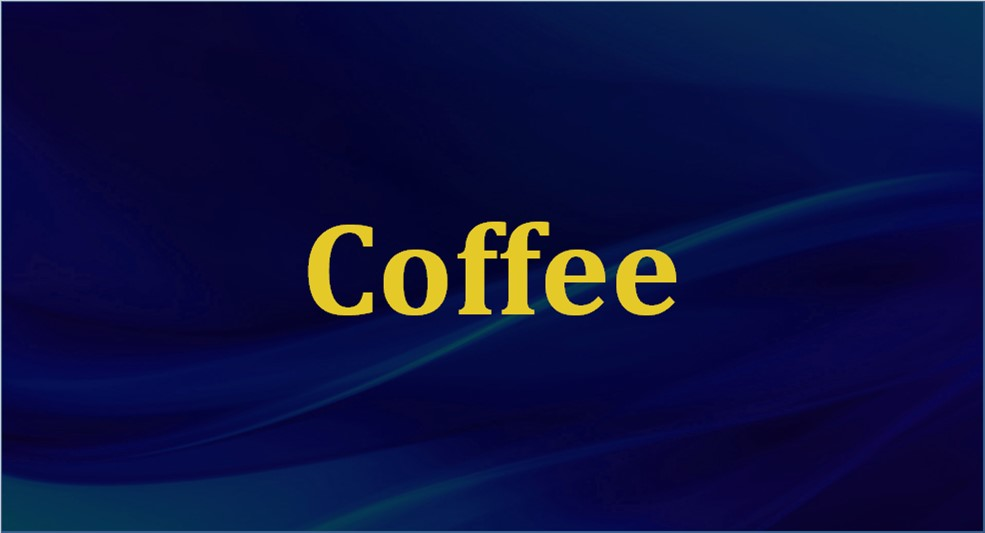
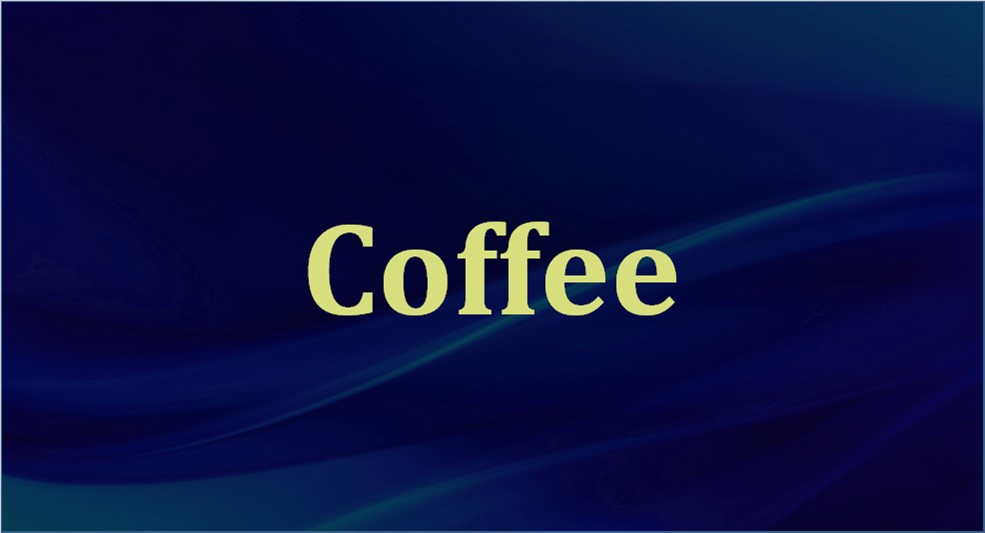
Add files via upload

Changed region(s): [[0.3046, 0.3902, 0.7005, 0.6004]]

diff --git a/index.html b/index.html
@@ -188,10 +188,10 @@ font-size: 60px;
 </Style>
 
 
-<script>var Currency1 = "$" </script><link rel="icon" type="image/x-icon" href="favicon.ico" > <form><input type="button" value="Main Page" onclick="location.href= '/'; return false;"  style="float: right;height:66; width:250; background-color: rgb(0,0,70); color: RGB(255,255,197); font-size:32pt; font-weight:bold"></form><font face='Helvetica' style="color: rgb(246,235,152); font-size: 16pt;">Menu By MyShopPOS <br><a href="https://MyShopPOS.wordpress.com"  target="_blank" rel="noopener noreferrer" style="color: inherit;text-decoration:none; cursor: pointer; cursor: hand;">MyShopPOS.wordpress.com</a>
-<body style="background-color: rgb(0,0,70); color: RGB(255,255,197); "><br> <font style="font-size: 14pt;">2022/12/28 16:06:04
+<script>var Currency1 = "$" </script><link rel="icon" type="image/x-icon" href="favicon.ico" > <form><input type="button" value="Main Page" onclick="location.href= '/'; return false;"  style="float: right;height:66; width:250; background-color: rgb(79,76,112); color: RGB(255,255,197); font-size:32pt; font-weight:bold"></form><font face='Helvetica' style="color: rgb(246,235,152); font-size: 16pt;">Menu By MyShopPOS <br><a href="https://MyShopPOS.wordpress.com"  target="_blank" rel="noopener noreferrer" style="color: inherit;text-decoration:none; cursor: pointer; cursor: hand;">MyShopPOS.wordpress.com</a>
+<body style="background-color: rgb(79,76,112); color: RGB(255,255,197); "><br> <font style="font-size: 14pt;">2022/12/28 16:19:29
 <title>Menu</title>
-<body style="background-color: rgb(0,0,70); color: rgb(246,235,152); "><table border=0 style='border-width:0; width:100%; cellspacing='0' cellpadding='0'>
+<body style="background-color: rgb(79,76,112); color: rgb(246,235,152); "><table border=0 style='border-width:0; width:100%; cellspacing='0' cellpadding='0'>
 <colgroup><col span='1'><col span='1' style='width: 60%;'><col span='1' style='width: 17%;'></colgroup>
 <tr>
 <td style='border-style: none; border-width: medium'></td>
@@ -235,15 +235,14 @@ font-size: 60px;
 <button style="border:none; outline: none; width:400px; background: none; height:200px" class="tablinks" onclick="return openCity(event, 'Coffee')"><img src="Menu Photos\Coffee.jpg"  width="100%" height="100%" alt="" /></button>
 <button style="border:none; outline: none; width:400px; background: none; height:200px" class="tablinks" onclick="return openCity(event, 'Whisky')"><img src="Menu Photos\Whisky.jpg"  width="100%" height="100%" alt="" /></button>
 <button style="border:none; outline: none; width:400px; background: none; height:200px" class="tablinks" onclick="return openCity(event, 'Beer')"><img src="Menu Photos\Beer.jpg"  width="100%" height="100%" alt="" /></button>
-<button style="border:none; outline: none; width:400px; background: none; height:200px" class="tablinks" onclick="return openCity(event, 'Various')"><img src="Menu Photos\Various.jpg"  width="100%" height="100%" alt="" /></button>
-<button style="border:none; outline: none; width:400px; background: none; height:200px" class="tablinks" onclick="return openCity(event, 'qweqwe')"><img src="Menu Photos\qweqwe.jpg"  width="100%" height="100%" alt="" /></button>
-<button style="border:none; outline: none; width:400px; background: none; height:200px" class="tablinks" onclick="return openCity(event, 'Column22')"><img src="Menu Photos\Column22.jpg"  width="100%" height="100%" alt="" /></button>
-<button style="border:none; outline: none; width:400px; background: none; height:200px" class="tablinks" onclick="return openCity(event, 'Column29')"><img src="Menu Photos\Column29.jpg"  width="100%" height="100%" alt="" /></button>
+<button style="border:none; outline: none; width:400px; background: none; height:200px" class="tablinks" onclick="return openCity(event, 'Baguettes')"><img src="Menu Photos\Baguettes.jpg"  width="100%" height="100%" alt="" /></button>
+<button style="border:none; outline: none; width:400px; background: none; height:200px" class="tablinks" onclick="return openCity(event, 'Croissants')"><img src="Menu Photos\Croissants.jpg"  width="100%" height="100%" alt="" /></button>
+<button style="border:none; outline: none; width:400px; background: none; height:200px" class="tablinks" onclick="return openCity(event, 'Desserts')"><img src="Menu Photos\Desserts.jpg"  width="100%" height="100%" alt="" /></button>
 </div>
 
 <div id="Appetizers" class="tabcontent">
 <table>
-<head><style>table, th, td {border: 0px solid rgb(246,235,152); border-collapse:collapse;}</style></head><body style="background-color: rgb(0,0,70); color: rgb(246,235,152); "><table style="width:100%"><font face="Helvetica" style="font-size:55px"> &nbsp </font>
+<head><style>table, th, td {border: 0px solid rgb(246,235,152); border-collapse:collapse;}</style></head><body style="background-color: rgb(79,76,112); color: rgb(246,235,152); "><table style="width:100%"><font face="Helvetica" style="font-size:55px"> &nbsp </font>
 <tr><td  VALIGN=TOP><font face="Helvetica" style="font-size:45px"><p style='font-family:helvetica;font-size:45px;'>Bruschetta<br><font face="Helvetica" style="font-size-adjust: none;text-size-adjust: none;-webkit-text-size-adjust: none;font-size:28px">Cherry Tomatoes Served on Fresh baguette with homemade Pesto Sauce topped with Parmesan Chesse
 </br></br></td>
 <td "col width=38%" valign="top" style="font-family:helvetica;font-size:45px; text-align:right;vertical-align:top">7.5 $
@@ -266,7 +265,7 @@ font-size: 60px;
 
 <div id="Salads" class="tabcontent">
 <table>
-<head><style>table, th, td {border: 0px solid rgb(246,235,152); border-collapse:collapse;}</style></head><body style="background-color: rgb(0,0,70); color: rgb(246,235,152); "><table style="width:100%"><font face="Helvetica" style="font-size:55px"> &nbsp </font>
+<head><style>table, th, td {border: 0px solid rgb(246,235,152); border-collapse:collapse;}</style></head><body style="background-color: rgb(79,76,112); color: rgb(246,235,152); "><table style="width:100%"><font face="Helvetica" style="font-size:55px"> &nbsp </font>
 <tr><td  VALIGN=TOP><font face="Helvetica" style="font-size:45px"><p style='font-family:helvetica;font-size:45px;'>Tierra Salad<br><font face="Helvetica" style="font-size-adjust: none;text-size-adjust: none;-webkit-text-size-adjust: none;font-size:28px">Lolla Rossa ,Baby Rocca,Sundrid tomato,Dried cranberry,Walnuts,with homemade Goat chesse and Honey Balsamic Vineger Sauce
 </br></br></td>
 <td "col width=38%" valign="top" style="font-family:helvetica;font-size:45px; text-align:right;vertical-align:top">9.0 $
@@ -289,7 +288,7 @@ font-size: 60px;
 
 <div id="Pizza" class="tabcontent">
 <table>
-<head><style>table, th, td {border: 0px solid rgb(246,235,152); border-collapse:collapse;}</style></head><body style="background-color: rgb(0,0,70); color: rgb(246,235,152); "><table style="width:100%"><font face="Helvetica" style="font-size:55px"> &nbsp </font>
+<head><style>table, th, td {border: 0px solid rgb(246,235,152); border-collapse:collapse;}</style></head><body style="background-color: rgb(79,76,112); color: rgb(246,235,152); "><table style="width:100%"><font face="Helvetica" style="font-size:55px"> &nbsp </font>
 <tr><td  VALIGN=TOP><font face="Helvetica" style="font-size:45px"><p style='font-family:helvetica;font-size:45px;'>Margarita Pizza<br><font face="Helvetica" style="font-size-adjust: none;text-size-adjust: none;-webkit-text-size-adjust: none;font-size:28px">Homemade Napoletana Pizza Sauce With Homemade Mozarella Chesse
 </br></br></td>
 <td "col width=38%" valign="top" style="font-family:helvetica;font-size:45px; text-align:right;vertical-align:top">10.0 $
@@ -336,7 +335,7 @@ font-size: 60px;
 
 <div id="Pasta" class="tabcontent">
 <table>
-<head><style>table, th, td {border: 0px solid rgb(246,235,152); border-collapse:collapse;}</style></head><body style="background-color: rgb(0,0,70); color: rgb(246,235,152); "><table style="width:100%"><font face="Helvetica" style="font-size:55px"> &nbsp </font>
+<head><style>table, th, td {border: 0px solid rgb(246,235,152); border-collapse:collapse;}</style></head><body style="background-color: rgb(79,76,112); color: rgb(246,235,152); "><table style="width:100%"><font face="Helvetica" style="font-size:55px"> &nbsp </font>
 
 <tr><td  VALIGN=TOP><font face="Helvetica" style="font-size:45px"><p style='font-family:helvetica;font-size:45px;'>Arabiata<br><font face="Helvetica" style="font-size-adjust: none;text-size-adjust: none;-webkit-text-size-adjust: none;font-size:28px">Fresh Pasta,Chilli,Pomodoro Sauce and Parmesan Chesse
 </br></br></td>
@@ -402,7 +401,7 @@ font-size: 60px;
 
 <div id="Main Courses" class="tabcontent">
 <table>
-<head><style>table, th, td {border: 0px solid rgb(246,235,152); border-collapse:collapse;}</style></head><body style="background-color: rgb(0,0,70); color: rgb(246,235,152); "><table style="width:100%"><font face="Helvetica" style="font-size:55px"> &nbsp </font>
+<head><style>table, th, td {border: 0px solid rgb(246,235,152); border-collapse:collapse;}</style></head><body style="background-color: rgb(79,76,112); color: rgb(246,235,152); "><table style="width:100%"><font face="Helvetica" style="font-size:55px"> &nbsp </font>
 <tr><td  VALIGN=TOP><font face="Helvetica" style="font-size:45px"><p style='font-family:helvetica;font-size:45px;'>Risotto Cepe
 </br></br></td>
 <td "col width=38%" valign="top" style="font-family:helvetica;font-size:45px; text-align:right;vertical-align:top">13.0 $
@@ -425,7 +424,7 @@ font-size: 60px;
 
 <div id="Breakfast" class="tabcontent">
 <table>
-<head><style>table, th, td {border: 0px solid rgb(246,235,152); border-collapse:collapse;}</style></head><body style="background-color: rgb(0,0,70); color: rgb(246,235,152); "><table style="width:100%"><font face="Helvetica" style="font-size:55px"> &nbsp </font>
+<head><style>table, th, td {border: 0px solid rgb(246,235,152); border-collapse:collapse;}</style></head><body style="background-color: rgb(79,76,112); color: rgb(246,235,152); "><table style="width:100%"><font face="Helvetica" style="font-size:55px"> &nbsp </font>
 <tr><td  VALIGN=TOP><font face="Helvetica" style="font-size:45px"><p style='font-family:helvetica;font-size:45px;'>Sandwich turkey chese
 </br></br></td>
 <td "col width=38%" valign="top" style="font-family:helvetica;font-size:45px; text-align:right;vertical-align:top">6.5 $
@@ -442,7 +441,7 @@ font-size: 60px;
 
 <div id="Soft & Juice" class="tabcontent">
 <table>
-<head><style>table, th, td {border: 0px solid rgb(246,235,152); border-collapse:collapse;}</style></head><body style="background-color: rgb(0,0,70); color: rgb(246,235,152); "><table style="width:100%"><font face="Helvetica" style="font-size:55px"> &nbsp </font>
+<head><style>table, th, td {border: 0px solid rgb(246,235,152); border-collapse:collapse;}</style></head><body style="background-color: rgb(79,76,112); color: rgb(246,235,152); "><table style="width:100%"><font face="Helvetica" style="font-size:55px"> &nbsp </font>
 <tr><td  VALIGN=TOP><font face="Helvetica" style="font-size:45px"><p style='font-family:helvetica;font-size:45px;'>Lemonade
 </br></br></td>
 <td "col width=38%" valign="top" style="font-family:helvetica;font-size:45px; text-align:right;vertical-align:top">1.5 $
@@ -495,7 +494,7 @@ font-size: 60px;
 
 <div id="Coffee" class="tabcontent">
 <table>
-<head><style>table, th, td {border: 0px solid rgb(246,235,152); border-collapse:collapse;}</style></head><body style="background-color: rgb(0,0,70); color: rgb(246,235,152); "><table style="width:100%"><font face="Helvetica" style="font-size:55px"> &nbsp </font>
+<head><style>table, th, td {border: 0px solid rgb(246,235,152); border-collapse:collapse;}</style></head><body style="background-color: rgb(79,76,112); color: rgb(246,235,152); "><table style="width:100%"><font face="Helvetica" style="font-size:55px"> &nbsp </font>
 <tr><td  VALIGN=TOP><font face="Helvetica" style="font-size:45px"><p style='font-family:helvetica;font-size:45px;'>Espresso
 </br></br></td>
 <td "col width=38%" valign="top" style="font-family:helvetica;font-size:45px; text-align:right;vertical-align:top">1.0 $
@@ -638,7 +637,7 @@ font-size: 60px;
 
 <div id="Whisky" class="tabcontent">
 <table>
-<head><style>table, th, td {border: 0px solid rgb(246,235,152); border-collapse:collapse;}</style></head><body style="background-color: rgb(0,0,70); color: rgb(246,235,152); "><table style="width:100%"><font face="Helvetica" style="font-size:55px"> &nbsp </font>
+<head><style>table, th, td {border: 0px solid rgb(246,235,152); border-collapse:collapse;}</style></head><body style="background-color: rgb(79,76,112); color: rgb(246,235,152); "><table style="width:100%"><font face="Helvetica" style="font-size:55px"> &nbsp </font>
 <tr><td  VALIGN=TOP><font face="Helvetica" style="font-size:45px"><p style='font-family:helvetica;font-size:45px;'>Red wine BTL
 </br></br></td>
 <td "col width=38%" valign="top" style="font-family:helvetica;font-size:45px; text-align:right;vertical-align:top">1.0 $
@@ -649,7 +648,7 @@ font-size: 60px;
 
 <div id="Beer" class="tabcontent">
 <table>
-<head><style>table, th, td {border: 0px solid rgb(246,235,152); border-collapse:collapse;}</style></head><body style="background-color: rgb(0,0,70); color: rgb(246,235,152); "><table style="width:100%"><font face="Helvetica" style="font-size:55px"> &nbsp </font>
+<head><style>table, th, td {border: 0px solid rgb(246,235,152); border-collapse:collapse;}</style></head><body style="background-color: rgb(79,76,112); color: rgb(246,235,152); "><table style="width:100%"><font face="Helvetica" style="font-size:55px"> &nbsp </font>
 <tr><td  VALIGN=TOP><font face="Helvetica" style="font-size:45px"><p style='font-family:helvetica;font-size:45px;'>Almaza
 </br></br></td>
 <td "col width=38%" valign="top" style="font-family:helvetica;font-size:45px; text-align:right;vertical-align:top">1.5 $
@@ -670,9 +669,9 @@ font-size: 60px;
 </table>
 </div>
 
-<div id="Various" class="tabcontent">
+<div id="Baguettes" class="tabcontent">
 <table>
-<head><style>table, th, td {border: 0px solid rgb(246,235,152); border-collapse:collapse;}</style></head><body style="background-color: rgb(0,0,70); color: rgb(246,235,152); "><table style="width:100%"><font face="Helvetica" style="font-size:55px"> &nbsp </font>
+<head><style>table, th, td {border: 0px solid rgb(246,235,152); border-collapse:collapse;}</style></head><body style="background-color: rgb(79,76,112); color: rgb(246,235,152); "><table style="width:100%"><font face="Helvetica" style="font-size:55px"> &nbsp </font>
 <tr><td  VALIGN=TOP><font face="Helvetica" style="font-size:45px"><p style='font-family:helvetica;font-size:45px;'>Polka
 </br></br></td>
 <td "col width=38%" valign="top" style="font-family:helvetica;font-size:45px; text-align:right;vertical-align:top">1.0 $
@@ -855,32 +854,9 @@ font-size: 60px;
 </table>
 </div>
 
-<div id="qweqwe" class="tabcontent">
+<div id="Croissants" class="tabcontent">
 <table>
-<head><style>table, th, td {border: 0px solid rgb(246,235,152); border-collapse:collapse;}</style></head><body style="background-color: rgb(0,0,70); color: rgb(246,235,152); "><table style="width:100%"><font face="Helvetica" style="font-size:55px"> &nbsp </font>
-<tr><td  VALIGN=TOP><font face="Helvetica" style="font-size:45px"><p style='font-family:helvetica;font-size:45px;'>Item 253
-</br></br></td>
-<td "col width=38%" valign="top" style="font-family:helvetica;font-size:45px; text-align:right;vertical-align:top">1.6 $
-</p></td></tr>
-
-
-<tr><td  VALIGN=TOP><font face="Helvetica" style="font-size:45px"><p style='font-family:helvetica;font-size:45px;'>Iteam 254
-</br></br></td>
-<td "col width=38%" valign="top" style="font-family:helvetica;font-size:45px; text-align:right;vertical-align:top">1.6 $
-</p></td></tr>
-
-
-<tr><td  VALIGN=TOP><font face="Helvetica" style="font-size:45px"><p style='font-family:helvetica;font-size:45px;'>Iteam255
-</br></br></td>
-<td "col width=38%" valign="top" style="font-family:helvetica;font-size:45px; text-align:right;vertical-align:top">2.0 $
-</p></td></tr>
-
-</table>
-</div>
-
-<div id="Column22" class="tabcontent">
-<table>
-<head><style>table, th, td {border: 0px solid rgb(246,235,152); border-collapse:collapse;}</style></head><body style="background-color: rgb(0,0,70); color: rgb(246,235,152); "><table style="width:100%"><font face="Helvetica" style="font-size:55px"> &nbsp </font>
+<head><style>table, th, td {border: 0px solid rgb(246,235,152); border-collapse:collapse;}</style></head><body style="background-color: rgb(79,76,112); color: rgb(246,235,152); "><table style="width:100%"><font face="Helvetica" style="font-size:55px"> &nbsp </font>
 <tr><td  VALIGN=TOP><font face="Helvetica" style="font-size:45px"><p style='font-family:helvetica;font-size:45px;'>Croissant Chesse
 </br></br></td>
 <td "col width=38%" valign="top" style="font-family:helvetica;font-size:45px; text-align:right;vertical-align:top">2.2 $
@@ -907,9 +883,9 @@ font-size: 60px;
 </table>
 </div>
 
-<div id="Column29" class="tabcontent">
+<div id="Desserts" class="tabcontent">
 <table>
-<head><style>table, th, td {border: 0px solid rgb(246,235,152); border-collapse:collapse;}</style></head><body style="background-color: rgb(0,0,70); color: rgb(246,235,152); "><table style="width:100%"><font face="Helvetica" style="font-size:55px"> &nbsp </font>
+<head><style>table, th, td {border: 0px solid rgb(246,235,152); border-collapse:collapse;}</style></head><body style="background-color: rgb(79,76,112); color: rgb(246,235,152); "><table style="width:100%"><font face="Helvetica" style="font-size:55px"> &nbsp </font>
 <tr><td  VALIGN=TOP><font face="Helvetica" style="font-size:45px"><p style='font-family:helvetica;font-size:45px;'>Mousse Chocolate
 </br></br></td>
 <td "col width=38%" valign="top" style="font-family:helvetica;font-size:45px; text-align:right;vertical-align:top">2.3 $
